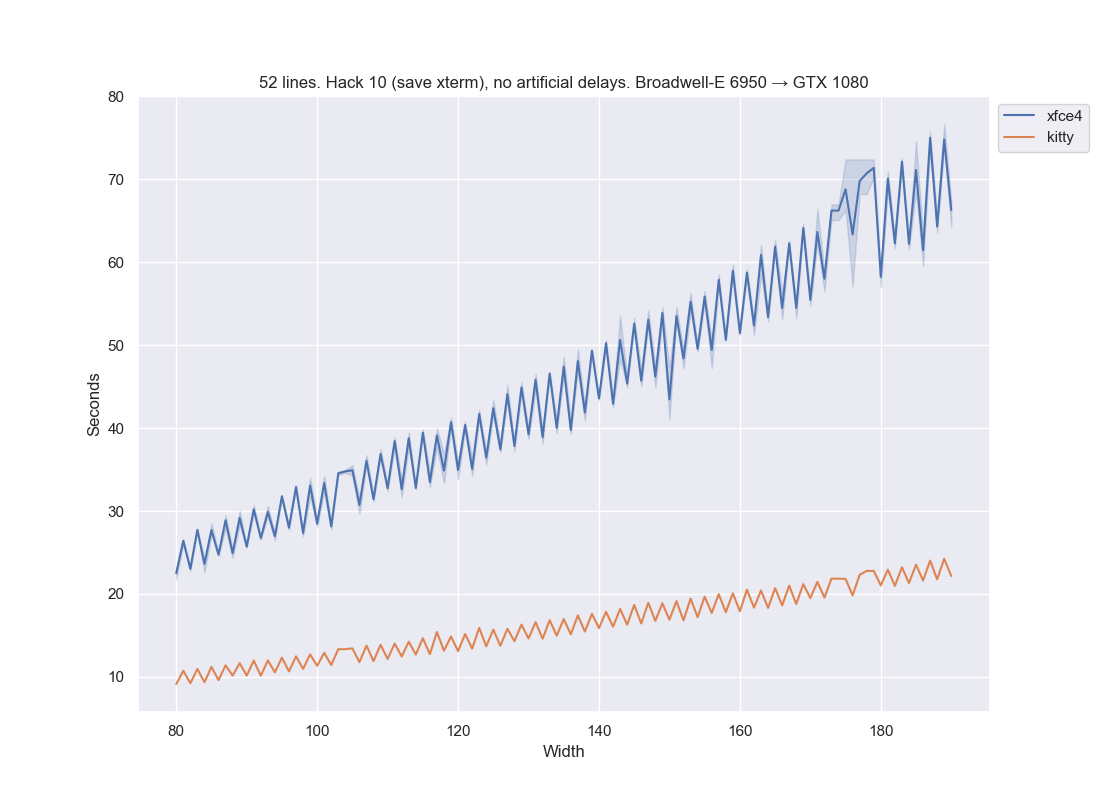
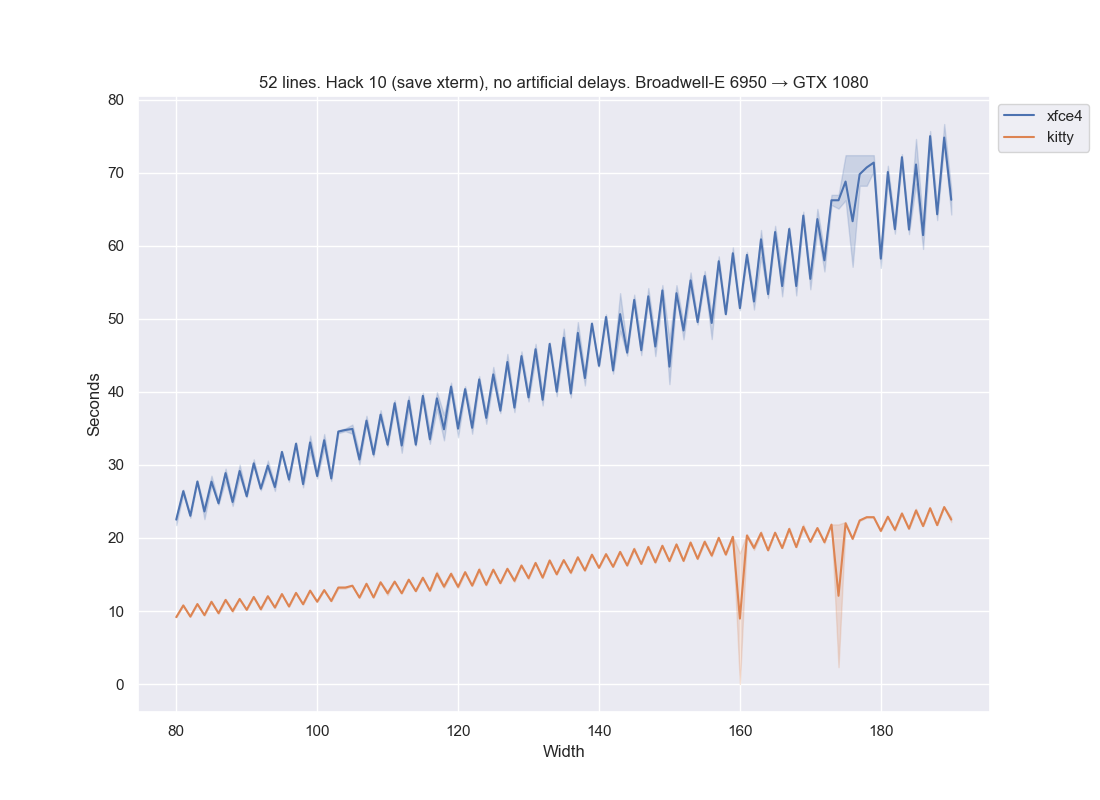
just one fix

diff --git a/004-notcurses/notcurses.tex b/004-notcurses/notcurses.tex
@@ -435,7 +435,11 @@ The machine on which I'm preparing this \LaTeX\ contains a
 TU104 GPU consisting of over thirteen billion 12nm-process transistors,
 rendering its output to a 3440x1440 (almost five megapixel) display. Deep
 within its silicon heart remains a VGA 80x25 text mode engine\cite{vga}, inherited
-largely unchanged from the EGA, the CGA, the IBM Monochrome Display Adapter\footnote{The
+largely unchanged from the EGA, the CGA\footnote{The Color Graphics Adapter was
+unmitigated trash, but you could do some crazy things with it. People were
+still finding things out this decade\cite{cga1024}, resulting in the
+nigh-obscene ``8088 MPH'' demo that won Revision 2015\cite{revision2015}.},
+the IBM Monochrome Display Adapter\footnote{The
 history of video display standards since 1981's MDA is a story of imprecision,
 dashed hopes, and idle dreams. Good luck finding authoritative references
 for anything beyond \texttt{int 10h} real mode operation prior to version 1.0
@@ -1805,12 +1809,11 @@ Certain transformations can be safely and more or less attractively applied
 to the entirety of the Latin alphabet:
 
 \begin{denseitemize}
-\item{ⓐ }
-%\item{{\fontspec{DejaVu Serif}ⓦⓔ ⓒⓐⓝ ⓟⓤⓣ ⓞⓤⓡ ⓣⓔⓧⓣ ⓘⓝ ⓒⓘⓡⓒⓛⓔⓢ}}
-\item{{\fontspec{DejaVu Serif}🅝🅔🅖🅐🅣🅘🅥🅔 🅒🅘🅡🅒🅛🅔🅢 🅐🅡🅔 🅐🅛🅢🅞 🅐🅥🅐🅘🅛🅐🅑🅛🅔}}
+\item{{\fontspec{Unifont}ⓦⓔ ⓒⓐⓝ ⓟⓤⓣ ⓞⓤⓡ ⓣⓔⓧⓣ ⓘⓝ ⓒⓘⓡⓒⓛⓔⓢ}}
+\item{{\fontspec{Unifont}🅝🅔🅖🅐🅣🅘🅥🅔 🅒🅘🅡🅒🅛🅔🅢 🅐🅡🅔 🅐🅛🅢🅞 🅐🅥🅐🅘🅛🅐🅑🅛🅔}}
 \item{ｓｔｒｅｔｔｔｃｈ ｔｅｘｔ ｗｉｔｈ ｆｕｌｌｗｉｄｔｈ}
-\item{{\fontspec{DejaVu Serif}🄴🅂🄲🄷🄴🅆 🄲🄸🅁🄲🄻🄴🅂 🄶🄴🅃 🅂🅀🅄🄰🅁🄴🅂}}
-\item{{\fontspec{DejaVu Serif}🅰 🅱🅴🅰🆄🆃🅸🅵🆄🅻 🆄🆂🅴 🅾🅵 🅽🅴🅶🅰🆃🅸🆅🅴 🆂🆀🆄🅰🆁🅴🆂}}
+\item{{\fontspec{Unifont}🄴🅂🄲🄷🄴🅆 🄲🄸🅁🄲🄻🄴🅂 🄶🄴🅃 🅂🅀🅄🄰🅁🄴🅂}}
+\item{{\fontspec{Unifont}🅰 🅱🅴🅰🆄🆃🅸🅵🆄🅻 🆄🆂🅴 🅾🅵 🅽🅴🅶🅰🆃🅸🆅🅴 🆂🆀🆄🅰🆁🅴🆂}}
 \item{{\fontspec{DejaVu Serif}𝕞𝕒𝕥𝕙 𝕕𝕠𝕦𝕓𝕝𝕖 𝕤𝕥𝕣𝕦𝕔𝕜, 𝕗𝕠𝕣 𝕥𝕙𝕠𝕤𝕖 𝕨𝕙𝕠 𝕨𝕚𝕤𝕙 𝕥𝕠 𝕝𝕠𝕠𝕜 𝕝𝕚𝕜𝕖 ℝ\^𝕟}}
 \end{denseitemize}
 
@@ -2618,6 +2621,13 @@ struct ncreel* ncreel_create(struct ncplane* nc, const ncreel_options* popts, in
 \caption{Reel creation.}
 \label{listing:reelopts}
 \end{listing}
+
+\begin{figure}
+  \centering
+  \includegraphics[width=.75\linewidth]{media/growlight1.png}
+  \caption{\texttt{growlight}, a program built around reels.}
+  \label{fig:growlight1}
+\end{figure}
 
 The ncreel object tracks the size, number, information depth, and order of
 tablets, and the foci. It also draws the optional borders around tablets and

diff --git a/004-notcurses/ttymechanics.tex b/004-notcurses/ttymechanics.tex
@@ -331,7 +331,7 @@ vague nature of ECMA-48 even in its most recent (1991) edition\cite{ecma48}, it 
 that two terminals ever implement it the exact same way. Even assuming an ANSI
 terminal, it's thus critical to use a terminal abstraction library (notwithstanding
 some people's well-meaning claims\cite{lexihale}); see the next section for
-more information. Most of the useful sequences are prefixed by ESC[ (0x27 0x5B),
+more information. Most of the useful ANSI sequences are prefixed by ESC[ (0x27 0x5B),
 the ``Control Sequence Initiator''. A selection of the ANSI control sequences
 is listed in Table~\ref{table:escapes} (but they should always be used through
 terminfo, as we'll see in a moment).

diff --git a/004-notcurses/plotrun.py b/004-notcurses/plotrun.py
@@ -17,7 +17,7 @@ suffixes = ['ns']#, 'bytes']
 for suf in suffixes:
     ttl = pd.DataFrame()
     bases = ['xfce4-1-', 'xfce4-2-', 'xfce4-3-',
-             'kitty-1-52-']
+             'kitty-1-52-', 'kitty-2-52-']
     widths = [] # widths
     times = [] # nanosecond counts
     terms = [] # terminals
